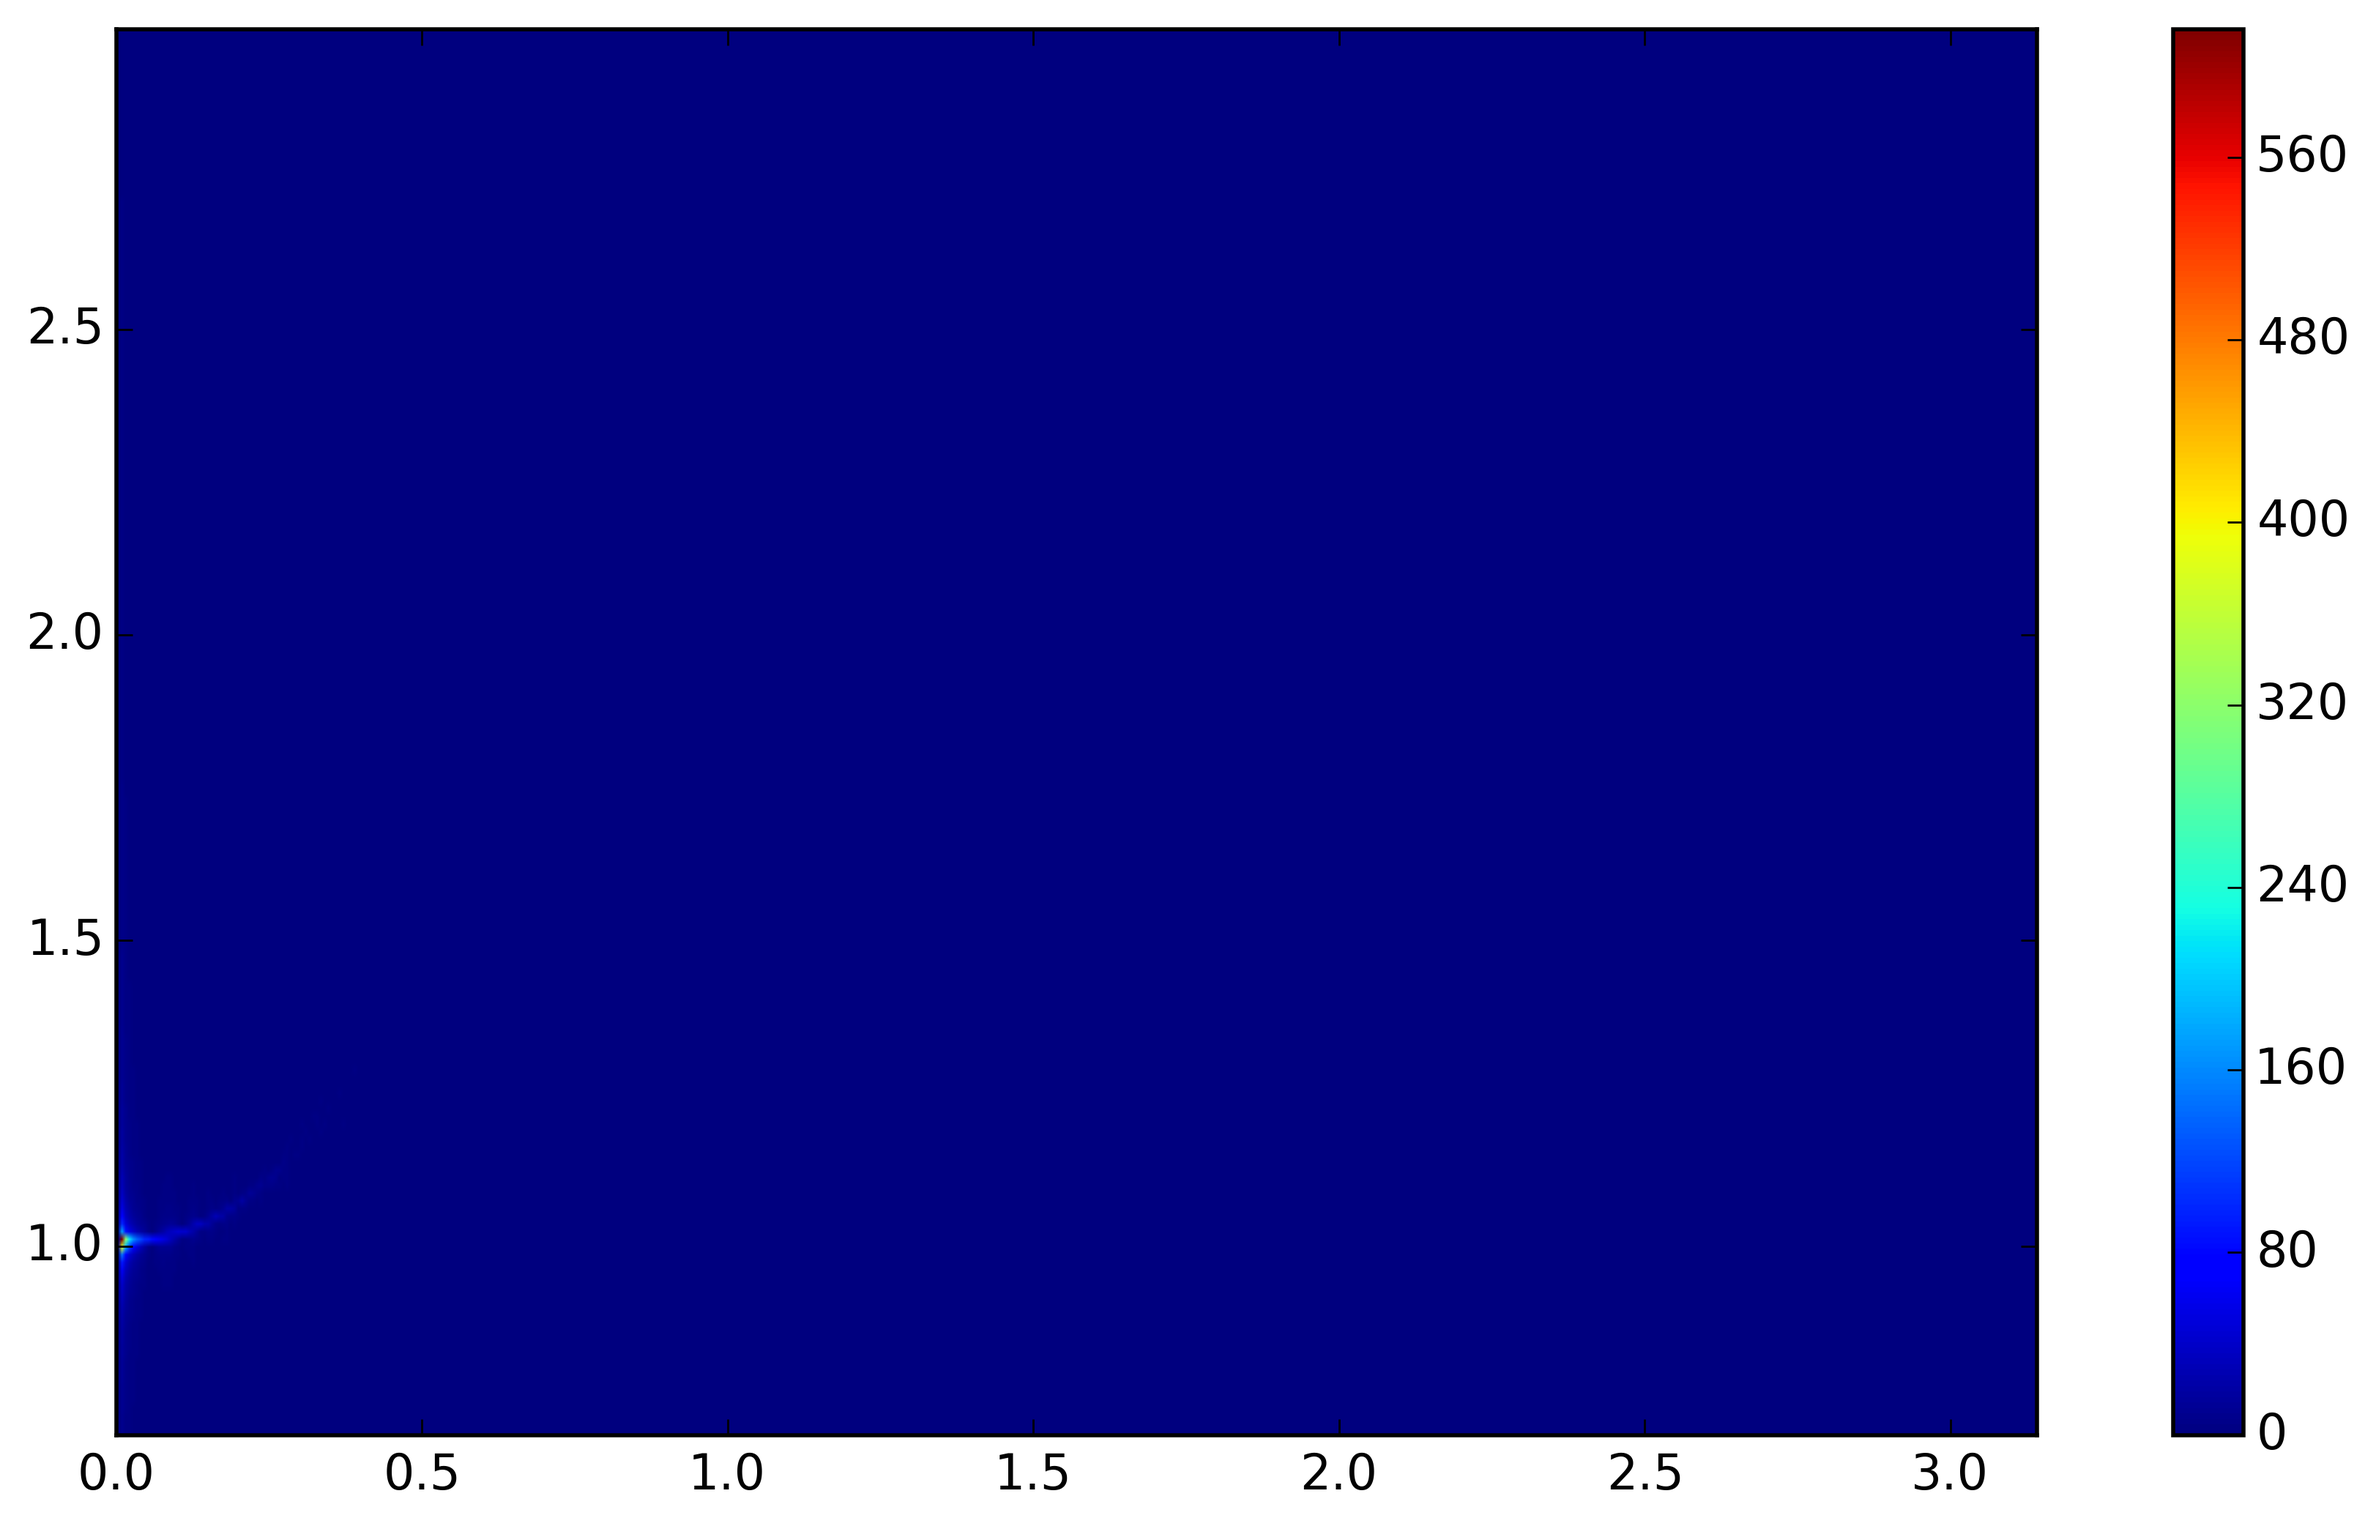
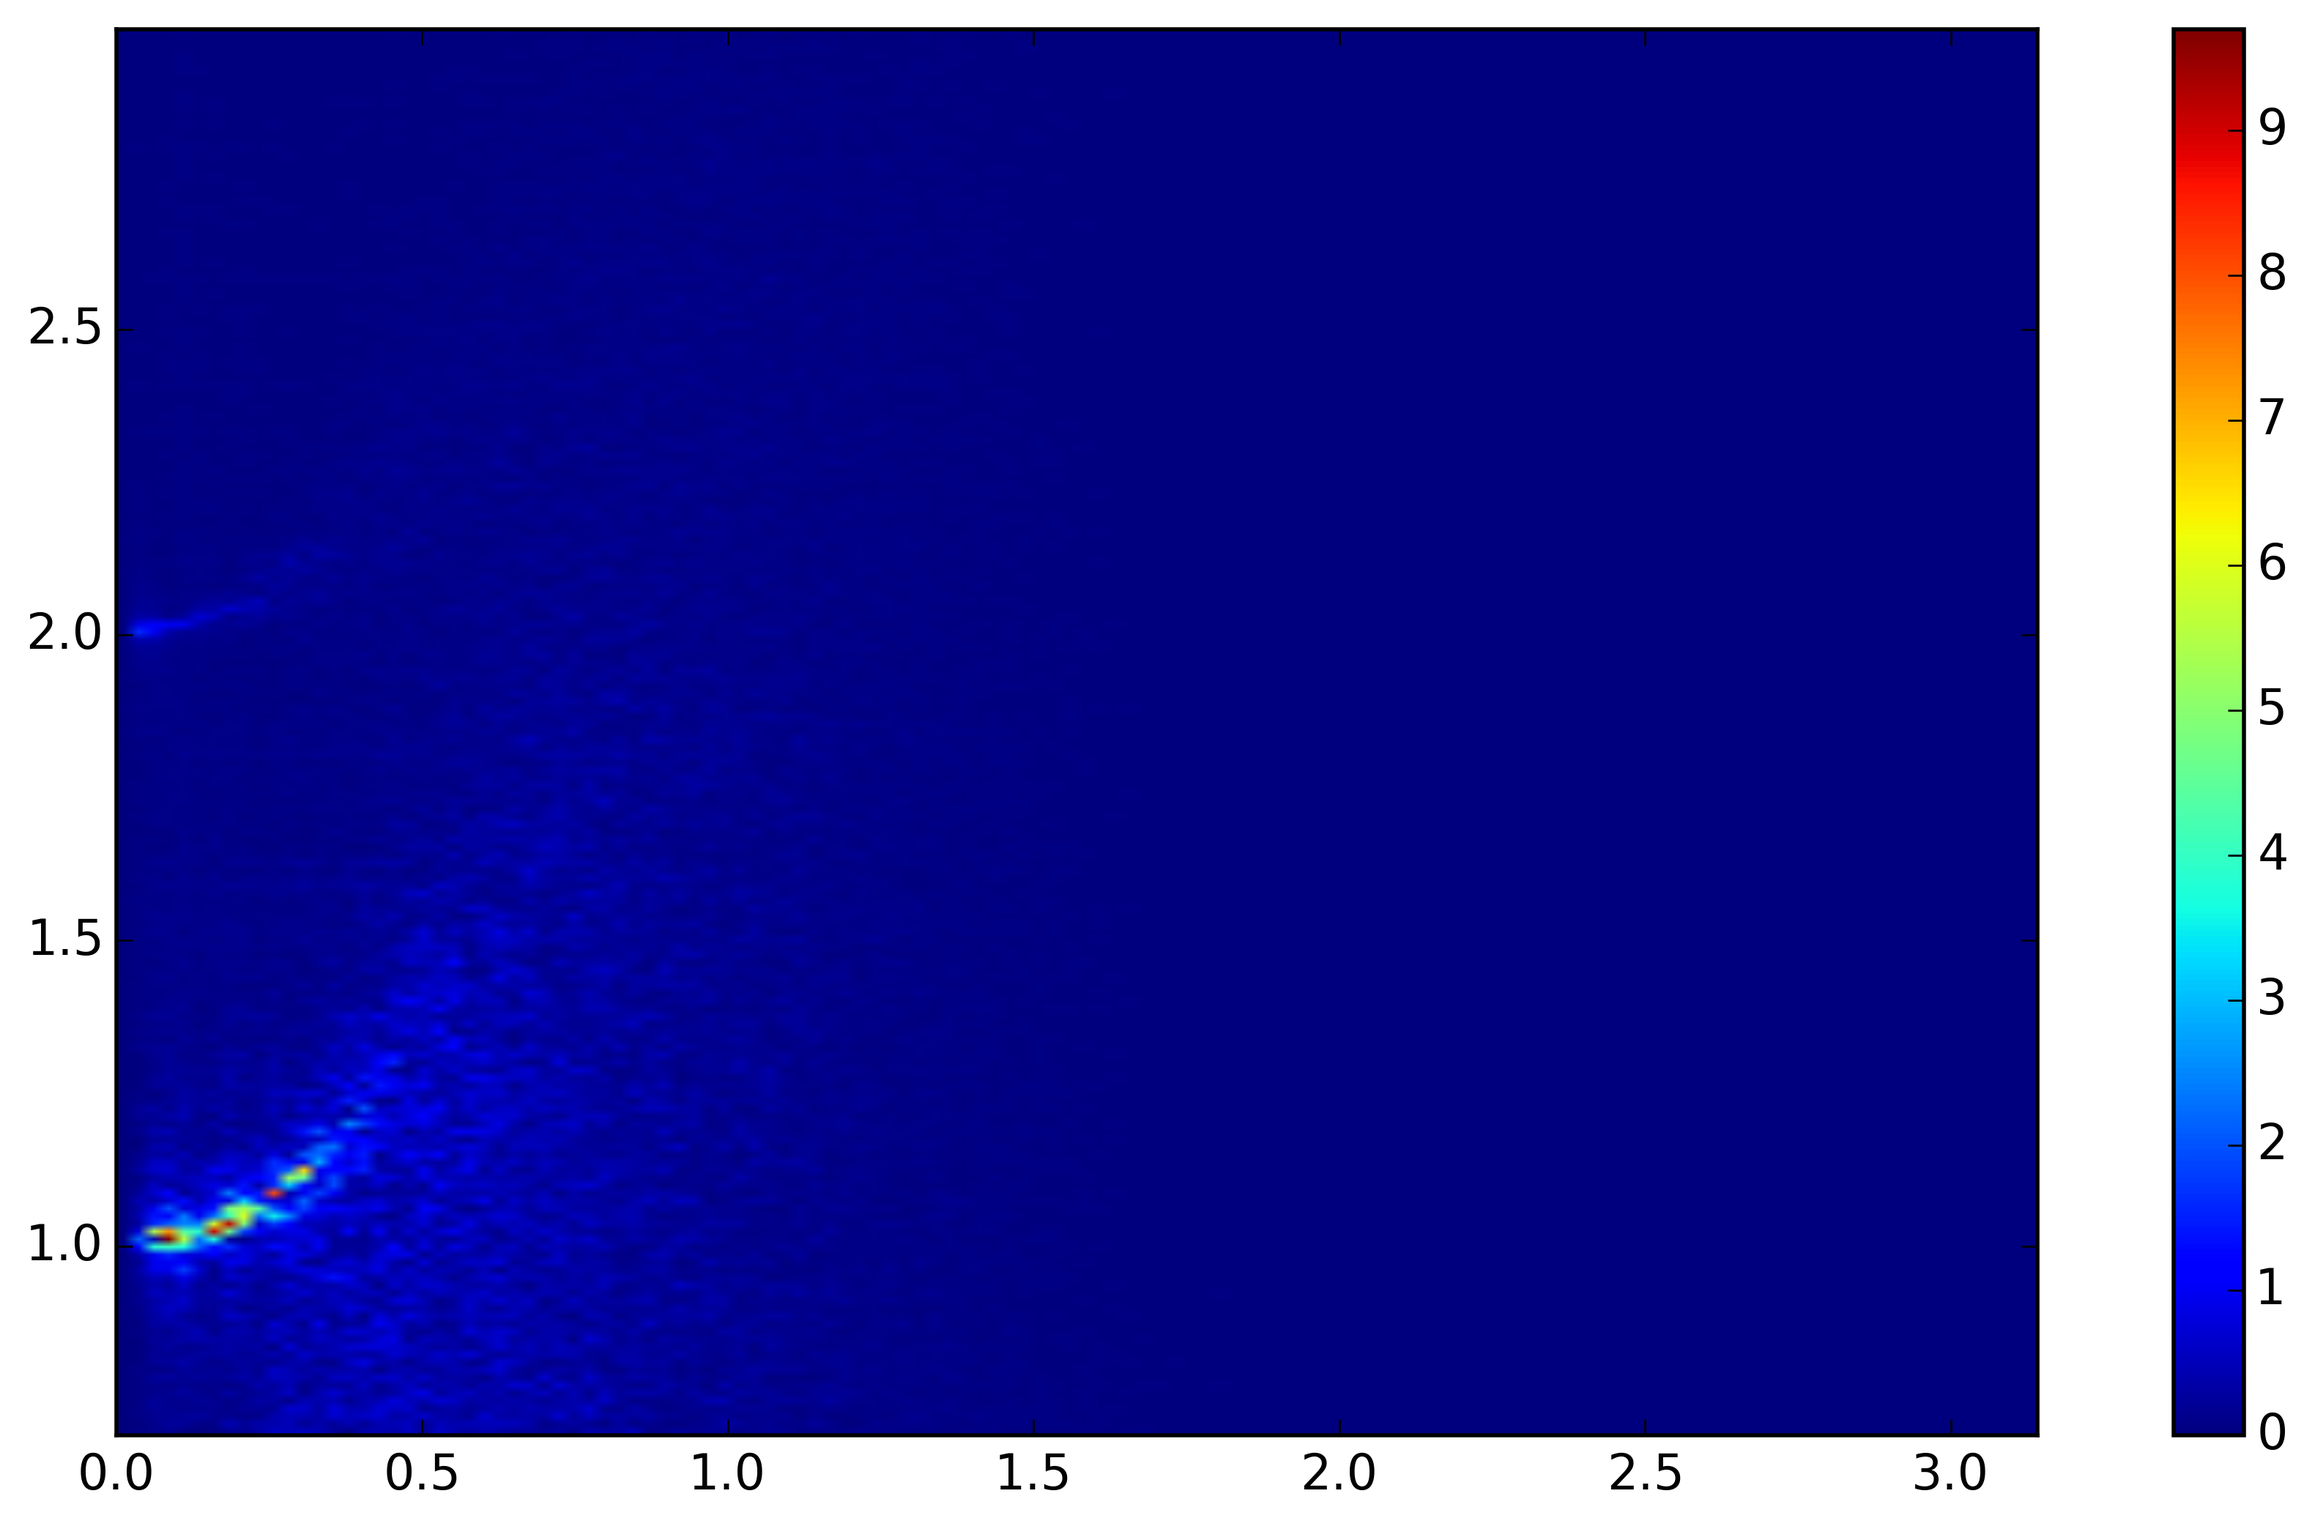
updating files

diff --git a/serial/python_pic2/Pic2.py b/serial/python_pic2/Pic2.py
@@ -105,8 +105,6 @@ def main():
 	
 	#main loop
 	for ntime in xrange(0,nloop):
-		if ntime % 100 ==0 : 
-			print ntime 
 		#zero matrices
 		fxye.fill(0.0)
 		qe.fill(0.0)
@@ -198,7 +196,7 @@ def main():
 		print fx_st,fx_end
 		freq_start = (2*np.pi/(dt*nloop))*fx_st
 		freq_end = (2*np.pi/(dt*nloop))*fx_end
-		plt.imshow(np.abs(np.fft.fft(phi[:,:,ny/3],axis=0)[fx_st:fx_end,:]),origin ='lower',extent=[0,np.pi,freq_start,freq_end])
+		plt.imshow(np.abs(np.fft.fft(phi[:,:,1],axis=0)[fx_st:fx_end,:]),origin ='lower',extent=[0,np.pi,freq_start,freq_end])
 		#plt.axis([0,np.pi, freq_start,freq_end])
 		plt.colorbar()
 		plt.savefig('disp',dpi = 400,bbox_inches = 'tight')
